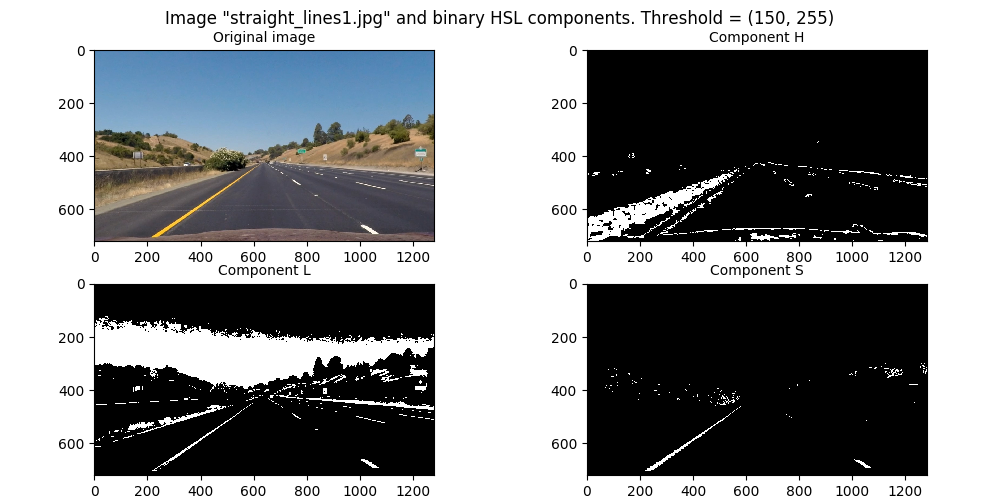
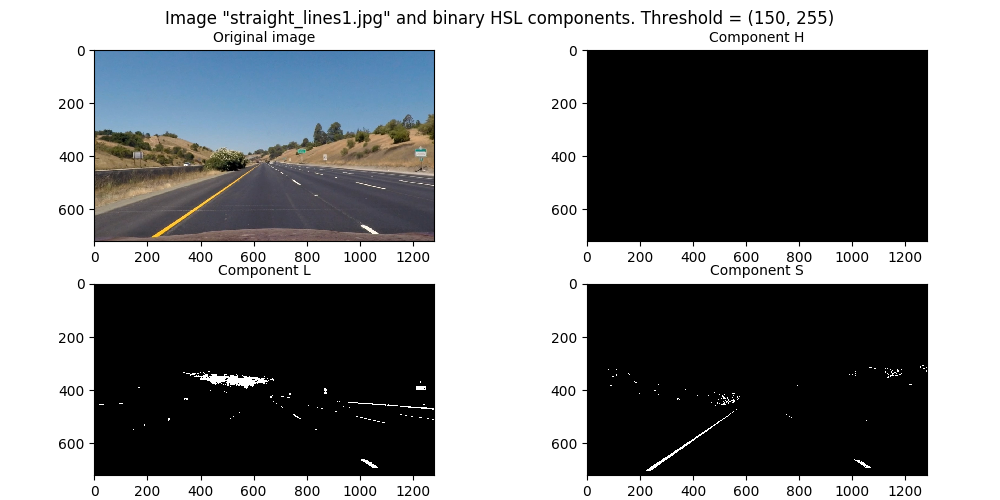
Transformation to bird view done
Transformation to bird view done, tested and optimized. In order to get
the lines paralel on the transformated image, the functions
"hough_vertices", "region_of_interest" and "hough_lines" from the first
project were used to get the vertices of the transformation polygon.
After that, the transformation was tested with this values on the images
"test1.jpg", "test2.jpg" and "test3.jpg" getting paralel lines on the
three images, indicating that the transformation is valid and can be
used for further analysis.

diff --git a/HoughLines.py b/HoughLines.py
@@ -1,0 +1,171 @@
+#!/usr/bin/env python3
+# -*- coding: utf-8 -*-
+"""
+Created on Mon Apr  8 01:49:30 2019
+
+@author: earendilavari
+"""
+
+import numpy as np
+import cv2
+
+# *************************houghVertices***************************
+# It creates the vertices array based on 6 values. Four of the X values and two of the Y values.
+# Inputs: x_left_bottom:	Coordinate X of the vertice at the left and the bottom
+#		  x_left_top:		Coordinate X of the vertice at the left and the top
+#		  x_right_bottom:	Coordinate X of the vertice at the right and the bottom
+#		  x_right_top:		Coordinate X of the vertice at the right and the top
+#		  y_bottom:			Coordinate Y at the bottom
+#		  y_horizon:		Coordinate Y at the top
+# Output: Numpy array including the points of the four vertices of the polygon.
+def houghVertices(x_left_bottom, x_left_top, x_right_bottom, x_right_top,y_bottom, y_horizon):
+    vertice_left_bottom = (x_left_bottom, y_bottom)
+    vertice_left_top = (x_left_top, y_horizon)
+    vertice_right_bottom = (x_right_bottom, y_bottom)
+    vertice_right_top = (x_right_top, y_horizon)
+    return np.array([[vertice_left_bottom, vertice_left_top, vertice_right_top, vertice_right_bottom]], dtype = np.int32)
+    
+# **********************region_of_interest***********************
+# This function only keeps the region of the image defined by the polygon
+# formed from `vertices`. The rest of the image is set to black.
+# Inputs: img: Image after the Canny edge detection which needs to be cutted.
+#		  vertices: Numpy array including the vertice points of the polygon.
+# Output: Image where only the edges inside the polygon defined are drawn.
+def region_of_interest(img, vertices):
+	#defining a blank mask to start with
+	mask = np.zeros_like(img)
+
+	#defining a 3 channel or 1 channel color to fill the mask with depending on the input image
+	if len(img.shape) > 2:
+		channel_count = img.shape[2]  # i.e. 3 or 4 depending on your image
+		ignore_mask_color = (255,) * channel_count
+	else:
+		ignore_mask_color = 255
+
+	#filling pixels inside the polygon defined by "vertices" with the fill color
+	cv2.fillPoly(mask, vertices, ignore_mask_color)
+
+	#returning the image only where mask pixels are nonzero
+	masked_image = cv2.bitwise_and(img, mask)
+	return masked_image
+
+
+# *************************hough_lines****************************
+# Uses the Hough transformation to determine points defining lines. To do that
+# the OpenCV function houghLinesP is used. This function returns arrays of two 
+# points describing a line. So it only describes the actual lines on the image.
+# This correspond to the real lines in the image, so if a line is dashed, 
+# it is not recognized as an entire line. To recognize the entire lines 
+# the points are separated in two groups, one with positive slope and 
+# other one with negative slope. and with those points the position X 
+# at the bottom of the image and at the far horizon of the image are 
+# calculated and with them the lines are drawn in a new image.
+# This new image only contains the detected lines.
+# Inputs: img_original: Original image where the lines will be detected
+# 		  img_edges:	Image where the edges where detected using 
+#						Canny transformation.
+#		  rho:			Distance resolution of the accumulator in pixels.
+#		  theta:		Angle resolution of the accumulator in radians.
+#		  threshold:	Accumulator threshold parameter. Only those lines are returned that get enough votes (>threshold)
+#		  min_line_len: Minimum line length. Line segments shorter than that are rejected.
+# 		  max_line_gap:	Maximum allowed gap between points on the same line to link them.
+#		  y_horizon:	y value where the lines should stop.
+# Output: Image where only the detected lines of the lane are drawn.
+def hough_lines(img_original, img_edges, rho, theta, threshold, min_line_len, max_line_gap, y_horizon):
+	if not hasattr(hough_lines, "last_avg_lower_x_right"):
+		hough_lines.last_avg_lower_x_right = 0
+	if not hasattr(hough_lines, "last_avg_upper_x_right"):
+		hough_lines.last_avg_upper_x_right = 0
+	if not hasattr(hough_lines, "last_avg_lower_x_left"):
+		hough_lines.last_avg_lower_x_left = 0
+	if not hasattr(hough_lines, "last_avg_upper_x_left"):
+		hough_lines.last_avg_upper_x_left = 0
+	img_lines = np.zeros_like(img_original)
+	img_points_def_lines = cv2.HoughLinesP(img_edges, rho, theta, threshold, np.array([]), min_line_len, max_line_gap)
+
+	if not hasattr(hough_lines, "last_img_points_def_lines"):
+		hough_lines.last_img_points_def_lines = img_points_def_lines
+
+	# It is verified if "img_points_def_lines" is none or not, if it is, the value of the last cycle is used. For that the 
+	# attribute last_img_points_def_lines is used
+	if img_points_def_lines is None:
+		img_points_def_lines = hough_lines.last_img_points_def_lines
+
+	hough_lines.last_img_points_def_lines = img_points_def_lines
+
+	# Create two lists of points, one for the left line and another of the right line
+	img_points_def_lines_right = []
+	img_points_def_lines_left = []
+
+	for drawing_line in img_points_def_lines:
+		x1 = drawing_line[0,0]
+		y1 = drawing_line[0,1]
+		x2 = drawing_line[0,2]
+		y2 = drawing_line[0,3]
+		if x2 != x1:
+			m = (y2 - y1)/(x2 - x1)
+
+		# Though observations it is known that the detected lines corresponding to the right line have a slope between 0.5 and 1, and the
+		# slope of the lines corresponding to the left line have a slope between -0.5 and -1
+		if (m > 0.5) & (m < 1) & (x2 != x1):
+			img_points_def_lines_right.append(drawing_line)
+		elif (m < -0.5) & (m > -1) & (x2 != x1):
+			img_points_def_lines_left.append(drawing_line)
+
+	# Create four lists, where the calculated X coordinates are saved
+	lower_x_values_right = []
+	upper_x_values_right = []
+	lower_x_values_left = []
+	upper_x_values_left = []
+
+	y_max = img_original.shape[0]	# Corresponds to the Y coordinate value at the bottom of the image
+	y_min = y_horizon # Corresponds to the Y coordinate value at the far horizon of the image, where the lines cannot be seen anymore
+
+	for drawing_line_right in img_points_def_lines_right:
+		if drawing_line_right[0,2] != drawing_line_right[0,0]:
+			m = (drawing_line_right[0,3] - drawing_line_right[0,1])/(drawing_line_right[0,2] - drawing_line_right[0,0])
+			x1 = drawing_line_right[0,0]
+			y1 = drawing_line_right[0,1]
+			lower_x_values_right.append((y_max - y1)/m + x1) # The lower X values are appended in the list
+			upper_x_values_right.append((y_min - y1)/m + x1) # The upper X values are appended in the list
+
+	for drawing_line_left in img_points_def_lines_left:
+		if drawing_line_left[0,2] != drawing_line_left[0,0]:
+			m = (drawing_line_left[0,3] - drawing_line_left[0,1])/(drawing_line_left[0,2] - drawing_line_left[0,0])
+			x1 = drawing_line_left[0,0]
+			y1 = drawing_line_left[0,1]
+			lower_x_values_left.append((y_max - y1)/m + x1) # The lower X values are appended in the list
+			upper_x_values_left.append((y_min - y1)/m + x1) # The upper X values are appended in the list
+
+	if len(lower_x_values_right) != 0:
+		avg_lower_x_right = int(np.mean(lower_x_values_right)) # The mean for the low X value of the right line is calculated
+	else:
+		avg_lower_x_right = hough_lines.last_avg_lower_x_right
+
+	if len(upper_x_values_right) != 0:
+		avg_upper_x_right = int(np.mean(upper_x_values_right)) # The mean for the high X value of the right line is calculated
+	else:
+		avg_upper_x_right = hough_lines.last_avg_upper_x_right
+
+	if len(lower_x_values_left) != 0: 
+		avg_lower_x_left = int(np.mean(lower_x_values_left)) # The mean for the low X value of the left line is calculated
+	else:
+		avg_lower_x_left = hough_lines.last_avg_lower_x_left
+
+	if len(upper_x_values_left) != 0:
+		avg_upper_x_left = int(np.mean(upper_x_values_left)) # The mean for the high X value of the left line is calculated
+	else:
+		avg_upper_x_left = hough_lines.last_avg_upper_x_left
+
+	hough_lines.last_avg_lower_x_right = avg_lower_x_right
+	hough_lines.last_avg_upper_x_right = avg_upper_x_right
+	hough_lines.last_avg_lower_x_left = avg_lower_x_left
+	hough_lines.last_avg_upper_x_left = avg_upper_x_left
+
+	# The right line is drawn using the average values
+	cv2.line(img_lines, (avg_lower_x_right, y_max), (avg_upper_x_right, y_min), (255,0,0), 10)
+
+	# The left line is drawn using the average values
+	cv2.line(img_lines, (avg_lower_x_left, y_max), (avg_upper_x_left, y_min), (255,0,0), 10)
+
+	return img_lines, avg_lower_x_left, avg_upper_x_left, avg_lower_x_right, avg_upper_x_right

diff --git a/Main.py b/Main.py
@@ -268,9 +268,9 @@ gradient, it seem like a good idea to create a binary image with this component
 
 # %% Binary image with HSL components
 
-imgStrLin1UndistH_bin = binImg.HSLBinary(imgStraightLines1Undist, 'h', (150, 255))
-imgStrLin1UndistS_bin = binImg.HSLBinary(imgStraightLines1Undist, 's', (150, 255))
-imgStrLin1UndistL_bin = binImg.HSLBinary(imgStraightLines1Undist, 'l', (150, 255))
+imgStrLin1UndistH_bin = binImg.HSLBinary(imgStraightLines1Undist, 'h', (180, 255))
+imgStrLin1UndistS_bin = binImg.HSLBinary(imgStraightLines1Undist, 's', (180, 255))
+imgStrLin1UndistL_bin = binImg.HSLBinary(imgStraightLines1Undist, 'l', (180, 255))
 
 figure9, fig9_axes = plt.subplots(2,2, figsize = (10, 5))
 figure9.tight_layout()
@@ -397,4 +397,134 @@ by the gradient in direction X of the L component, gets detected with the S comp
 after that the equations corresponding to the lane lines.
 '''
 
-# %% 
+# %%%%%%%%%%%%%%%%%%% PERSPECTIVE TRANSFORM %%%%%%%%%%%%%%%%%%%%%%%%%%%%%%
+
+'''
+Now that we have a robust method to get a binary image where the line pixels can be found, it is time to transform the images into
+an aereal view, so the lines can be seen in a plane.
+For that, the function WarpPolygonToSquare was added to the Camera class. It transforms the image using a polygon, so it receives four values
+of X and two of Y.
+
+Let's try that function with the first image "straight_lines1.jpg"
+'''
+
+imgStraightLines1Warped = cam.WarpPolygonToSquare(imgStraightLines1Undist, 450, 700, 200, 580, 1100, 700)
+
+# Now, lets print it and compare it with the original image
+
+figure12, fig12_axes = plt.subplots(1, 2, figsize = (10, 5))
+figure12.tight_layout()
+figure12.suptitle('Perspective transformed image')
+fig12_axes[0].imshow(imgStraightLines1Undist)
+fig12_axes[0].set_title('Original Image')
+fig12_axes[1].imshow(imgStraightLines1Warped)
+fig12_axes[1].set_title('Transformed image')
+figure12.savefig('ImgsReport/12_StraightLines1_transformed')
+
+'''
+As it can be seen in the images, the perspective transform is working well getting an image in "bird view" perspective. The problem is
+that the lines are not paralel as they should be. That is because the vertices of the selected polygon were selected very roughly. That the 
+lines are paralel in the bird view image is very important in order to get good calculations after that. So it is needed to get the vertices
+of that polygon in a precise way.
+
+Here is where the work in the first project can be very useful to calculate those vertices. So we import from the first project functions 
+"region_of_interest", "hough_vertices" and "hough_lines", now located in the file HoughLines.py and we update the "hough_lines" function to 
+return the points at the beginning and at the end of the line.
+
+Also the function "CombineBinaries" was added to the class BinaryImg. 
+'''
+
+# %%%%%%%%%%%%%%%%%%% PERSPECTIVE TRANSFORM WITH HOUGH LINES %%%%%%%%%%%%%%%%%%
+
+exec(open('HoughLines.py').read())
+
+# First, the binary image where the lane lines are visible needs to be made, to do that, the two images calculated before are used
+imgStraightLines1bin =  binImg.CombineBinaries(strLines1BinHSLchLDirX, imgStrLin1UndistS_bin)
+
+# Now the vertices where we calculate the Hough lines
+y_horizon = 450
+y_bottom = imgStraightLines1bin.shape[0] - 50
+
+houghVertices = houghVertices(100, 550, 1200, 800, y_bottom, y_horizon)
+
+# Then crop the image to the region of interest
+houghRegion = region_of_interest(imgStraightLines1bin, houghVertices)
+
+# Then calculate the hough lines, together with the points
+houghLines, x_bottomLeft, x_topLeft, x_bottomRight, x_topRight = hough_lines(imgStraightLines1Undist, imgStraightLines1bin, 
+                                                                                 1, np.pi/180, 50, 40, 2, y_horizon)
+# Now with the new points the warped image corrected
+imgStraightLines1Warped_corr = cam.WarpPolygonToSquare(imgStraightLines1Undist, y_horizon, imgStraightLines1Undist.shape[0], 
+                                                       x_bottomLeft, x_topLeft, x_bottomRight, x_topRight)
+
+# Lets draw the polygon in the original image
+polygonVerticesOrig = np.array([[x_bottomLeft, y_bottom + 50],[x_topLeft, y_horizon],[x_topRight, y_horizon],[x_bottomRight, y_bottom + 50]], 
+                           np.int32)
+polygonVerticesWarped = np.array([[300, imgStraightLines1Warped_corr.shape[0]], [300, 0], [imgStraightLines1Warped_corr.shape[1] - 300, 0], 
+                                  [imgStraightLines1Warped_corr.shape[1] - 300, imgStraightLines1Warped_corr.shape[0]]], np.int32)
+
+imgStraightLines1Poly = imgStraightLines1Undist.copy()
+imgStraightLines1Warped_corrPoly = imgStraightLines1Warped_corr.copy()
+cv2.polylines(imgStraightLines1Poly, [polygonVerticesOrig], True, (255,0,0),3)
+cv2.polylines(imgStraightLines1Warped_corrPoly, [polygonVerticesWarped], True, (255,0,0),4)
+
+# Now let's print the entire process
+figure13, fig13_axes = plt.subplots(2,2, figsize = (10, 5))
+figure13.tight_layout()
+figure13.suptitle('Perspective transformed image using polygon calculated with Hough lane lines')
+fig13_axes[0,0].imshow(houghRegion, cmap = 'gray')
+fig13_axes[0,0].set_title('Binary image masked with a region of interest', fontsize = 10)
+fig13_axes[0,1].imshow(houghLines)
+fig13_axes[0,1].set_title('Lane lines detected with Hough Lines Algorithm', fontsize = 10)
+fig13_axes[1,0].imshow(imgStraightLines1Poly)
+fig13_axes[1,0].set_title('Original image with transformation polygon', fontsize = 10)
+fig13_axes[1,1].imshow(imgStraightLines1Warped_corrPoly)
+fig13_axes[1,1].set_title('Transformated image', fontsize = 10)
+plt.subplots_adjust(top = 0.9, bottom = 0.05)
+figure13.savefig('ImgsReport/13_StraightLines1_transformed_corr')
+
+'''
+By using this method to find the vertices of the conversion polygon the lane lines in the converted image are completely paralel. What means
+that the conversion is now accurate and appropiate to be used. The best thing is, that this process is not needed in the pipeline, these 
+vertices can be used for any image to convert it into bird view image, so they can be used as parameters within the pipeline.
+'''
+
+# %% Lets validate the parameters by doing the conversion with other three images
+
+imgTest1_warped = cam.WarpPolygonToSquare(imgTest1ud, y_horizon, imgTest1ud.shape[0], 
+                                        x_bottomLeft, x_topLeft, x_bottomRight, x_topRight)
+
+imgTest2_warped = cam.WarpPolygonToSquare(imgTest2ud, y_horizon, imgTest2ud.shape[0], 
+                                        x_bottomLeft, x_topLeft, x_bottomRight, x_topRight)
+
+imgTest3_warped = cam.WarpPolygonToSquare(imgTest3ud, y_horizon, imgTest3ud.shape[0], 
+                                        x_bottomLeft, x_topLeft, x_bottomRight, x_topRight)
+
+figure14, fig14_axes = plt.subplots(3,2, figsize = (11, 11))
+figure14.tight_layout()
+figure14.suptitle('Perspective transformed images using polygon calculated with Hough lane lines')
+fig14_axes[0,0].imshow(imgTest1ud)
+fig14_axes[0,0].set_title('"test1.jpg"', fontsize = 10)
+fig14_axes[0,0].axis('off')
+fig14_axes[0,1].imshow(imgTest1_warped)
+fig14_axes[0,1].set_title('Warped "test1.jpg"', fontsize = 10)
+fig14_axes[0,1].axis('off')
+fig14_axes[1,0].imshow(imgTest2ud)
+fig14_axes[1,0].set_title('"test2.jpg"', fontsize = 10)
+fig14_axes[1,0].axis('off')
+fig14_axes[1,1].imshow(imgTest2_warped)
+fig14_axes[1,1].set_title('Warped "test2.jpg"', fontsize = 10)
+fig14_axes[1,1].axis('off')
+fig14_axes[2,0].imshow(imgTest3ud)
+fig14_axes[2,0].set_title('"test3.jpg"', fontsize = 10)
+fig14_axes[2,0].axis('off')
+fig14_axes[2,1].imshow(imgTest3_warped)
+fig14_axes[2,1].set_title('Warped "test5.jpg"', fontsize = 10)
+fig14_axes[2,1].axis('off')
+plt.subplots_adjust(top = 0.9, bottom = 0.05)
+figure14.savefig('ImgsReport/14_TestImagesWarped')
+
+'''
+By showing the three images and their warped version it can be seen how well this polygon does performing the transformation. In all the three
+images the lines stay paralel, which means that the conversion is valid and can be used for further analysis.
+'''

diff --git a/Camera.py b/Camera.py
@@ -57,6 +57,28 @@ class Camera:
             undistortedImgFile = savePath % (i+1)
             cv2.imwrite(undistortedImgFile, undistortedImg)
             
+    def WarpPolygonToSquare(self, image, y_top, y_bottom, x_leftBottom, x_leftTop, x_rightBottom, x_rightTop):
+        # Creates four points in the original image and in the warped image
+        orgImagePointLeftBottom = (x_leftBottom, y_bottom)
+        orgImagePointLeftTop = (x_leftTop, y_top)
+        orgImagePointRightBottom = (x_rightBottom, y_bottom)
+        orgImagePointRightTop = (x_rightTop, y_top)
+        destImagePointLeftBottom = (300, image.shape[0])
+        destImagePointLeftTop = (300, 0)
+        destImagePointRightBottom = (image.shape[1] - 300, image.shape[0])
+        destImagePointRightTop = (image.shape[1] - 300, 0)
+        
+        orgPoints = np.float32([orgImagePointLeftBottom, orgImagePointLeftTop, orgImagePointRightTop, orgImagePointRightBottom])
+        destPoints = np.float32([destImagePointLeftBottom, destImagePointLeftTop, destImagePointRightTop, destImagePointRightBottom])
+        
+        # It gets the transformation matrix using the OpenCV function getPerspectiveTransform
+        transMatrix = cv2.getPerspectiveTransform(orgPoints, destPoints)
+        # It transforms the image using the transformation matrix and the OpenCV function warpPerspective
+        warpedImg = cv2.warpPerspective(image, transMatrix, (image.shape[1], image.shape[0]), flags = cv2.INTER_LINEAR)
+        
+        return warpedImg
+    
+        
             
 
 

diff --git a/BinaryImg.py b/BinaryImg.py
@@ -91,9 +91,14 @@ class BinaryImg:
         
         return imgThresholded
     
+    def CombineBinaries(self, img1, img2):
+        combinedBinary = cv2.bitwise_or(img1, img2)*255
+        return combinedBinary
+    
     def CombineBinariesBlueGreen(self, img1, img2):
         combinedBinary = np.dstack((np.zeros_like(img1), img1, img2))*255
         return combinedBinary
+    
 
         
 
